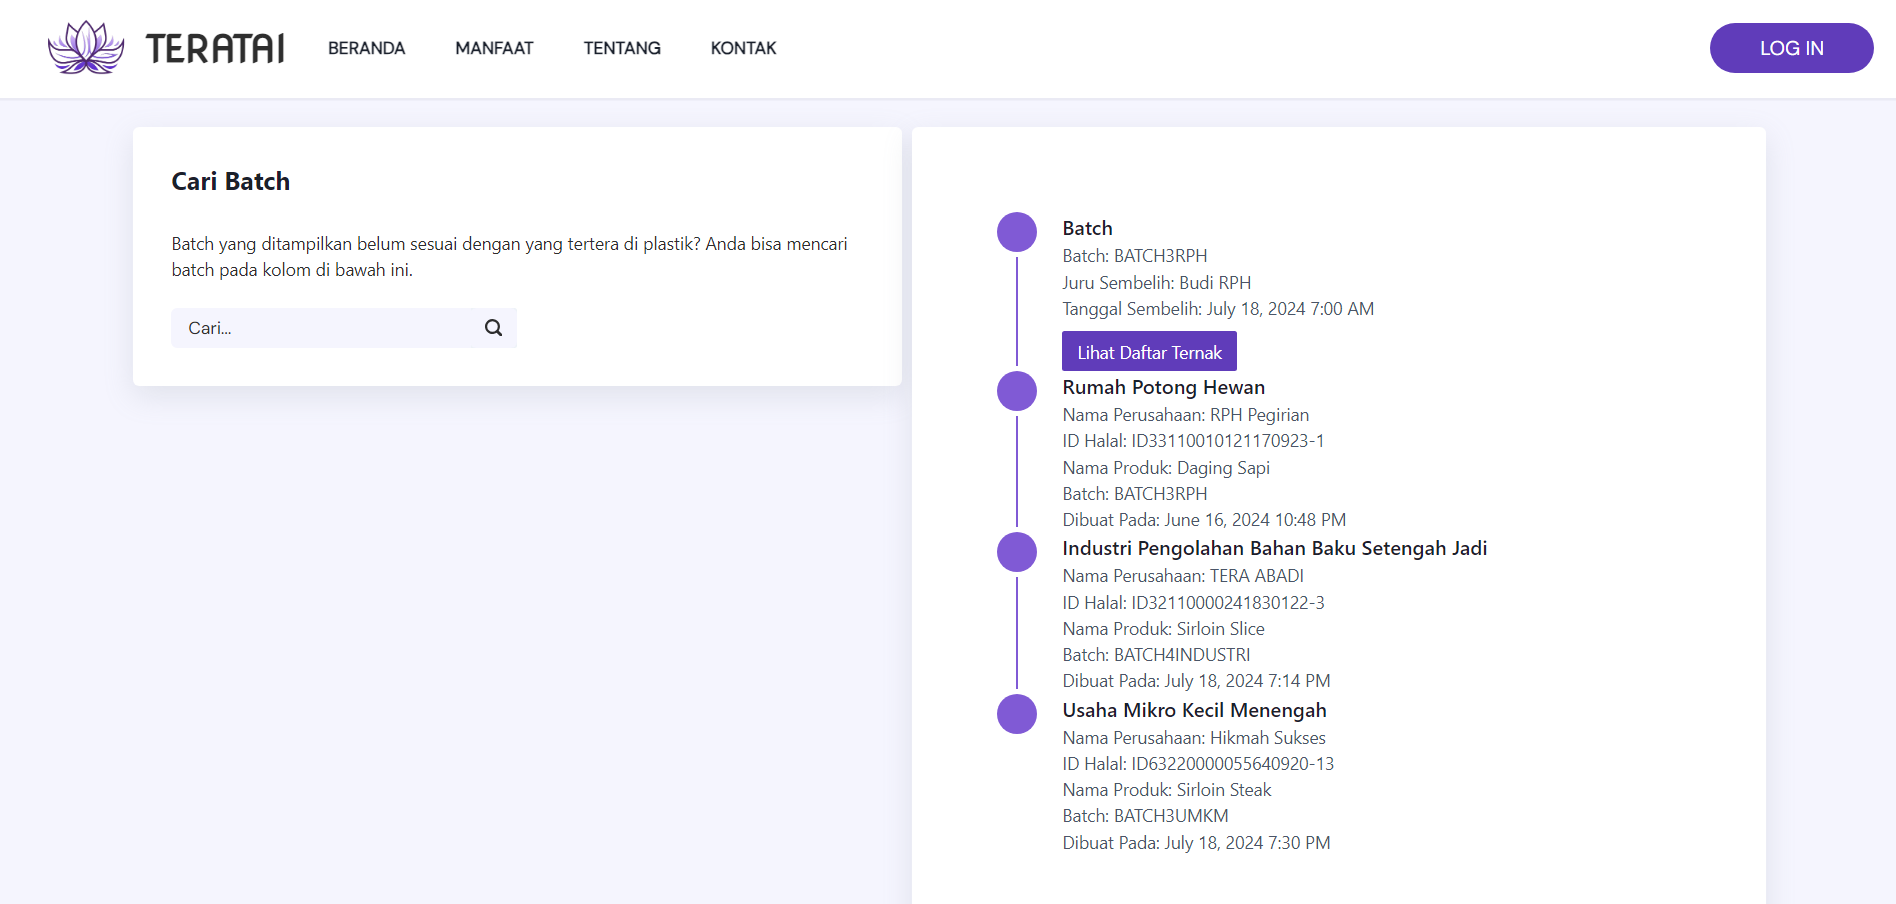
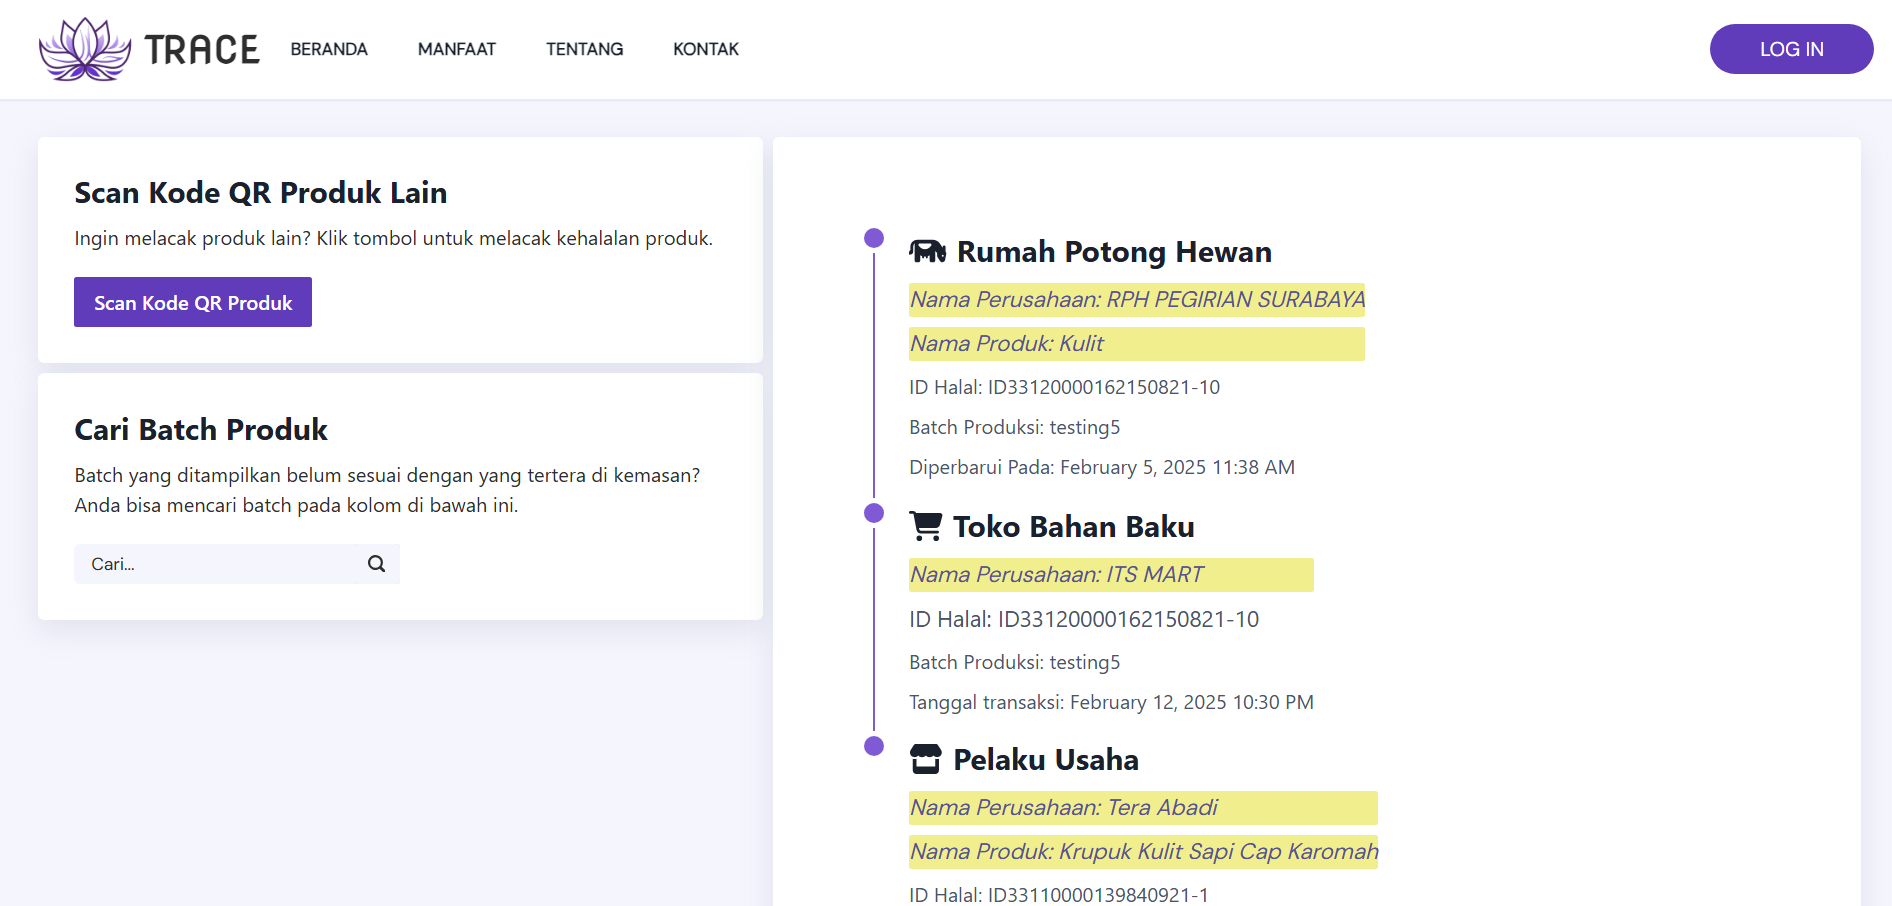
Minor change on home and project

diff --git a/src/Routes/Home.jsx b/src/Routes/Home.jsx
@@ -44,15 +44,20 @@ function Home() {
                 </Heading>
                 <Box borderRadius={'10'} alignItems={{base: 'start', md:'start'}} justifyContent={'center'} background={'white'} fontFamily={'McLaren'} padding={'5'} width={'100%'}>
                   <Text color={'#CD5A79'} fontFamily={'McLaren'} fontSize={{base:'lg', md:'xl'}}>
-                    I usually work with <span className='highlightPink'>Figma, React.js, and Chakra UI</span>. But I'm also <span className='highlightPink'>willing and happy to learn</span> other frameworks cause I'm a <span className='highlightPink'>person with a big curiousity</span>. I speak in <span className='highlightPink'>Indonesian and English</span>. I can speak <span className='highlightPink'>Japanese</span> a little. So <span className='highlightPink'>はじめまして、よろしくお願いします。</span> I'm a <span className='highlightPink'>person full of responsibility</span>. I'm <span className='highlightPink'>used to working alone and also with a team</span>.
+                   <span className='highlightPink'>From learning to loving</span> is how I describe my passion as a <span className='highlightPink'>Front End Engineering</span>
                   </Text>
                 </Box>
                 <Box borderRadius={'10'} alignItems={{base: 'start', md:'start'}} justifyContent={'center'} background={'white'} fontFamily={'McLaren'} padding={'5'} width={'100%'}>
                   <Text color={'#CD5A79'} fontFamily={'McLaren'} fontSize={{base:'lg', md:'xl'}}>
-                    I'm so <span className='highlightPink'>interested in learning UI/UX, how is the relation between the two aspects</span>. How does this website can appeal user? How to make their works easier by this interface? Why is a simple website can still make users interested? That's what I always think when I create a website. I think, <span className='highlightPink'>UI/UX design is a really powerful thing</span>. Website is a media for users to communicate with the server. <span className='highlightPink'>How good is your design can makes users work faster</span>, they might also like your website too and often use it.
+                    I usually work with <span className='highlightPink'>Figma, React.js, and Chakra UI</span>. But I'm also <span className='highlightPink'>willing and happy to learn</span> other frameworks cause I'm a <span className='highlightPink'>person with a big curiousity</span>. I speak in <span className='highlightPink'>Indonesian and English</span>. I can speak <span className='highlightPink'>Japanese</span> a little. So <span className='highlightPink'>はじめまして、よろしくお願いします。</span> I'm a <span className='highlightPink'>person full of responsibility</span>. I'm <span className='highlightPink'>used to working alone and also with a team</span>.
                   </Text>
                 </Box>
-              <Flex direction={{base: 'column', md:'row'}} alignItems={{base: 'start', md:'start'}} justifyContent={'center'} width={{base:'100%', md:'100%'}} gap={{base:'5', md:'10'}}>
+                {/* <Box borderRadius={'10'} alignItems={{base: 'start', md:'start'}} justifyContent={'center'} background={'white'} fontFamily={'McLaren'} padding={'5'} width={'100%'}>
+                  <Text color={'#CD5A79'} fontFamily={'McLaren'} fontSize={{base:'lg', md:'xl'}}>
+                    I'm so <span className='highlightPink'>interested in learning UI/UX, how is the relation between the two aspects</span>. How does this website can appeal user? How to make their works easier by this interface? Why is a simple website can still make users interested? That's what I always think when I create a website. I think, <span className='highlightPink'>UI/UX design is a really powerful thing</span>. Website is a media for users to communicate with the server. <span className='highlightPink'>How good is your design can makes users work faster</span>, they might also like your website too and often use it.
+                  </Text>
+                </Box> */}
+              {/* <Flex direction={{base: 'column', md:'row'}} alignItems={{base: 'start', md:'start'}} justifyContent={'center'} width={{base:'100%', md:'100%'}} gap={{base:'5', md:'10'}}>
                 <Flex direction={'row'} borderRadius={'10'} alignItems={{base: 'start', md:'start'}} justifyContent={'center'} background={'white'} fontFamily={'McLaren'} padding={'5'} width={'100%'}>
                   <Text color={'#CD5A79'} fontFamily={'McLaren'} fontSize={{base:'lg', md:'xl'}}>
                     Javascript 
@@ -86,7 +91,7 @@ function Home() {
                     <FontAwesomeIcon icon={'fa-solid fa-star'} color={'#AD0035'} size={'xl'}/>
                     <FontAwesomeIcon icon={'fa-solid fa-star'} color={'#AD0035'} size={'xl'}/>
                 </Flex>
-              </Flex>
+              </Flex> */}
             </Flex>
       </Box>
     </>

diff --git a/src/Routes/Projects.jsx b/src/Routes/Projects.jsx
@@ -23,12 +23,12 @@ function Projects() {
                     <Image src={Teratai} width={{base:'100%', md:'57%'}} height={'100%'} alignSelf={'center'}/>
                     <Flex gap={'5'} direction={'column'}>
                         <Heading fontFamily={'McLaren'} fontSize={{base:'lg', md:'xl'}} color={'#CD3C68'} fontWeight={'600'}>
-                            Teratai
+                            Trace
                         </Heading>
                         <Text color={'#CD5A79'} fontSize={{base:'md', md:'lg'}}>
-                            <span className='highlightPink'>Teratai (Telusur dan Pantau Halal Indonesia)</span> is a <span className='highlightPink'>halal traceability supply chain guarantee system</span>, especially for meat based product. This web application records information regarding the halal status of a product, from the initial production stages to the materials that will be used in the making of ready-to-eat products. In this project, I am responsible for <span className={'highlightPink'}>User Research, UI/UX Design, and Front-End Website Development</span>.
+                            <span className='highlightPink'>Trace (Telusur dan Pantau Halal Indonesia)</span> is a <span className='highlightPink'>halal traceability supply chain guarantee system</span>, especially for meat based product. This web application records information regarding the halal status of a product, from the initial production stages to the materials that will be used in the making of ready-to-eat products. In this project, I am responsible for <span className={'highlightPink'}>User Research, UI/UX Design, and Front-End Website Development</span>.
                         </Text> 
-                        <Link to='https://riset.its.ac.id/teratai-dev/' target={'_blank'} width={{base:'100%', md:'100%'}} _hover={{textDecoration:'none'}}>
+                        <Link to='https://trace.halal.go.id' target={'_blank'} width={{base:'100%', md:'100%'}} _hover={{textDecoration:'none'}}>
                             <Flex borderRadius={'10'} padding={'2%'} color={'white'} fontFamily={'McLaren'} className='gradationPink'>
                                 See details
                                 <Spacer /> 
